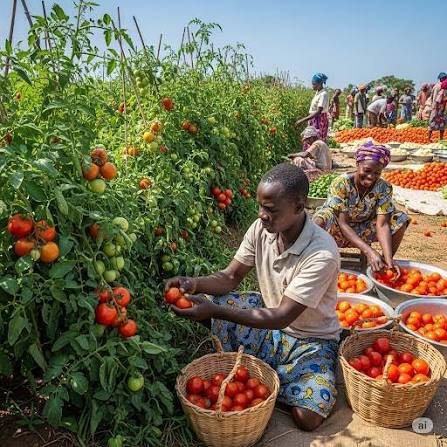
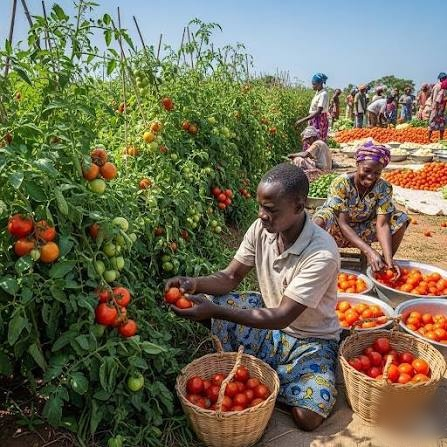
Retablit les deux images par diapositive du carrousel d'accueil
Chaque diapositive affiche a nouveau ses deux photos cote a cote au
lieu d'une seule : le decoupage 50/50 en flex reste actif a toutes
les tailles d'ecran, donc sur PC les deux images se voient en entier
alors que sur telephone chaque moitie plus etroite n'en montre
naturellement qu'une partie, sans logique specifique au mobile.

Corrige aussi le filigrane "ai" visible dans le coin de la photo
heros2-carrousel-culturetomate.jpg (a l'origine pris pour une icone
Instagram) en le fondant dans la texture environnante.

Changed region(s): [[0.8143, 0.8434, 1.0, 1.0]]

diff --git a/src/components/home/HeroCarousel.tsx b/src/components/home/HeroCarousel.tsx
@@ -11,7 +11,8 @@ type Slide = {
   subtitle: string;
   ctaLabel: string;
   ctaHref: string;
-  image: string;
+  imageLeft: string;
+  imageRight: string;
 };
 
 const slides: Slide[] = [
@@ -22,7 +23,8 @@ const slides: Slide[] = [
       "La Cuisinière transforme la tomate locale en sauces et purées prêtes à l'emploi — pour cuisiner simple, toute l'année, tout en soutenant les producteurs d'ici.",
     ctaLabel: "Découvrir nos produits",
     ctaHref: "/nos-produits",
-    image: "/images/heros1-carrousel-culturetomate.webp",
+    imageLeft: "/images/heros1-carrousel-culturetomate.webp",
+    imageRight: "/images/heros2-carrousel-culturetomate.jpg",
   },
   {
     tabLabel: "100% naturel",
@@ -31,7 +33,8 @@ const slides: Slide[] = [
       "Des sauces préparées simplement, à partir de tomates béninoises sélectionnées avec soin, pour un goût qui ne dépend jamais du calendrier.",
     ctaLabel: "Découvrir notre histoire",
     ctaHref: "/notre-histoire",
-    image: "/images/heros1-carrousel-zerospesticide.jpg",
+    imageLeft: "/images/heros1-carrousel-zerospesticide.jpg",
+    imageRight: "/images/heros2-carousel-zerospesticide.jpg",
   },
   {
     tabLabel: "Nos recettes",
@@ -40,7 +43,8 @@ const slides: Slide[] = [
       "Des recettes simples et gourmandes, pensées pour nos sauces et purées — pour cuisiner local, toute l'année.",
     ctaLabel: "Découvrir nos recettes",
     ctaHref: "/recettes",
-    image: "/images/heros1-carrousel-nosrecettes.jpg",
+    imageLeft: "/images/heros1-carrousel-nosrecettes.jpg",
+    imageRight: "/images/heros2-carrousel-nosrecettes.jpg",
   },
 ];
 
@@ -66,15 +70,27 @@ export default function HeroCarousel() {
 
   return (
     <section className="relative -mt-28 h-[640px] max-h-[90vh] w-full overflow-hidden bg-feuille-dark text-white">
-      <div className="absolute inset-0">
-        <Image
-          src={slide.image}
-          alt=""
-          fill
-          priority={index === 0}
-          className="object-cover"
-          sizes="100vw"
-        />
+      <div className="absolute inset-0 flex">
+        <div className="relative h-full w-1/2">
+          <Image
+            src={slide.imageLeft}
+            alt=""
+            fill
+            priority={index === 0}
+            className="object-cover"
+            sizes="50vw"
+          />
+        </div>
+        <div className="relative h-full w-1/2">
+          <Image
+            src={slide.imageRight}
+            alt=""
+            fill
+            priority={index === 0}
+            className="object-cover"
+            sizes="50vw"
+          />
+        </div>
       </div>
       <div className="absolute inset-0 bg-gradient-to-r from-black/75 via-black/40 to-black/10" />
       <div className="absolute inset-x-0 top-0 h-28 bg-gradient-to-b from-black/50 to-transparent" />
